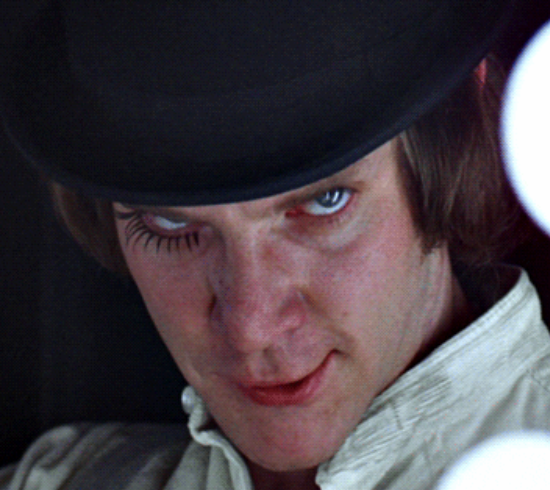
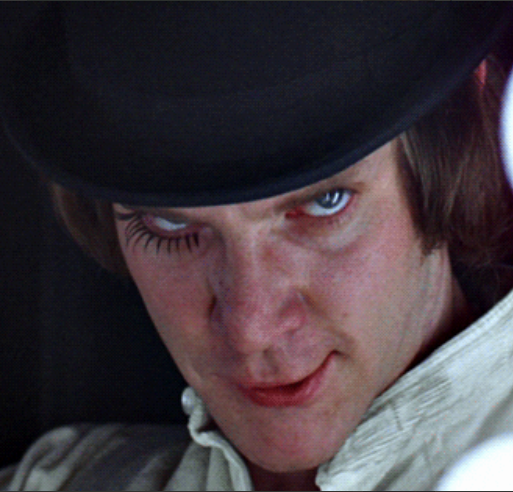
film's blocks are done

Changed region(s): [[0.1871, 0.0306, 1.0, 1.0], [0.0312, 0.8571, 0.1559, 1.0], [0.9981, 0.5204, 1.0, 0.551]]

diff --git a/index.html b/index.html
@@ -173,9 +173,9 @@
                     </p>
                 </div>
                 <div class="filmframes">
-                    <img src="" alt="">
-                    <img src="" alt="">
-                    <img src="" alt="">
+                    <img src="./img/film's frames/nc1.png" alt="Error">
+                    <img src="./img/film's frames/nc2.png" alt="Error">
+                    <img src="./img/film's frames/nc3.png" alt="Error">
                 </div>
               </section>
               <section class="ingbast film">
@@ -195,9 +195,9 @@
                     </p>
                 </div>
                 <div class="filmframes">
-                    <img src="" alt="">
-                    <img src="" alt="">
-                    <img src="" alt="">
+                    <img src="./img/film's frames/ib1.png" alt="Error">
+                    <img src="./img/film's frames/ib2.png" alt="Error">
+                    <img src="./img/film's frames/ib3.png" alt="Error">
                 </div>
               </section>
               <section class="taxidriver film">
@@ -217,9 +217,9 @@
                     </p>
                 </div>
                 <div class="filmframes">
-                    <img src="" alt="">
-                    <img src="" alt="">
-                    <img src="" alt="">
+                    <img src="./img/film's frames/td1.png" alt="Error">
+                    <img src="./img/film's frames/td2.png" alt="Error">
+                    <img src="./img/film's frames/td3.png" alt="Error">
                 </div>
               </section>
               <section class="brunner film">
@@ -239,9 +239,9 @@
                     </p>
                 </div>
                 <div class="filmframes">
-                    <img src="" alt="">
-                    <img src="" alt="">
-                    <img src="" alt="">
+                    <img src="./img/film's frames/br1.png" alt="Error">
+                    <img src="./img/film's frames/br2.png" alt="Error">
+                    <img src="./img/film's frames/br3.png" alt="Error">
                 </div>
               </section>
               <section class="fclub film">
@@ -263,9 +263,9 @@
                     </p>
                 </div>
                 <div class="filmframes">
-                    <img src="" alt="">
-                    <img src="" alt="">
-                    <img src="" alt="">
+                    <img src="./img/film's frames/fc1.png" alt="Error">
+                    <img src="./img/film's frames/fc2.png" alt="Error">
+                    <img src="./img/film's frames/fc3.png" alt="Error">
                 </div>
               </section>
               <section class="pfict film">
@@ -285,9 +285,9 @@
                     </p>
                 </div>
                 <div class="filmframes">
-                    <img src="" alt="">
-                    <img src="" alt="">
-                    <img src="" alt="">
+                    <img src="./img/film's frames/pf1.png" alt="Error">
+                    <img src="./img/film's frames/pf2.png" alt="Error">
+                    <img src="./img/film's frames/pf3.png" alt="Error">
                 </div>
               </section>
               <section class="tgf film">
@@ -308,9 +308,9 @@
                     </p>
                 </div>
                 <div class="filmframes">
-                    <img src="" alt="">
-                    <img src="" alt="">
-                    <img src="" alt="">
+                    <img src="./img/film's frames/tgf1.png" alt="Error">
+                    <img src="./img/film's frames/tgf2.png" alt="Error">
+                    <img src="./img/film's frames/tgf3.png" alt="Error">
                 </div>
               </section>
           </article>
